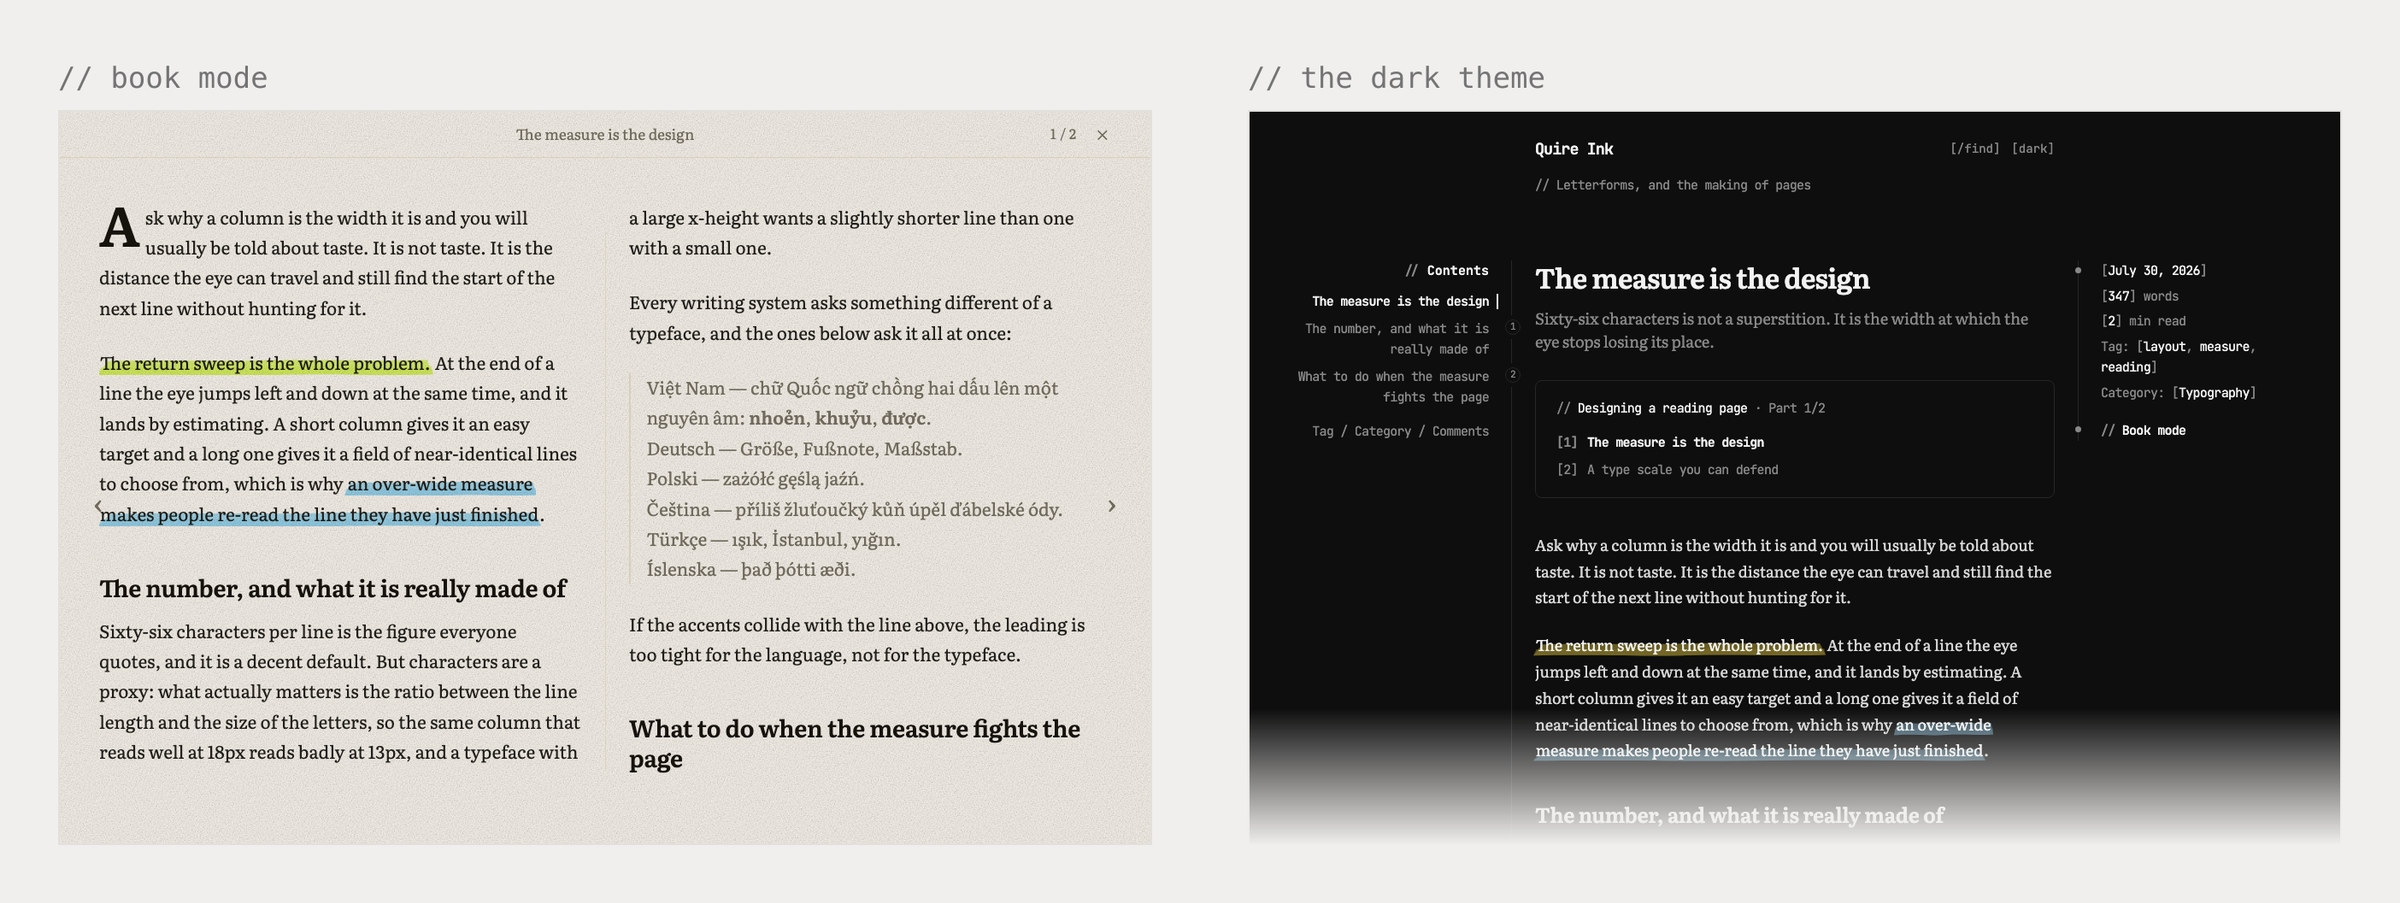
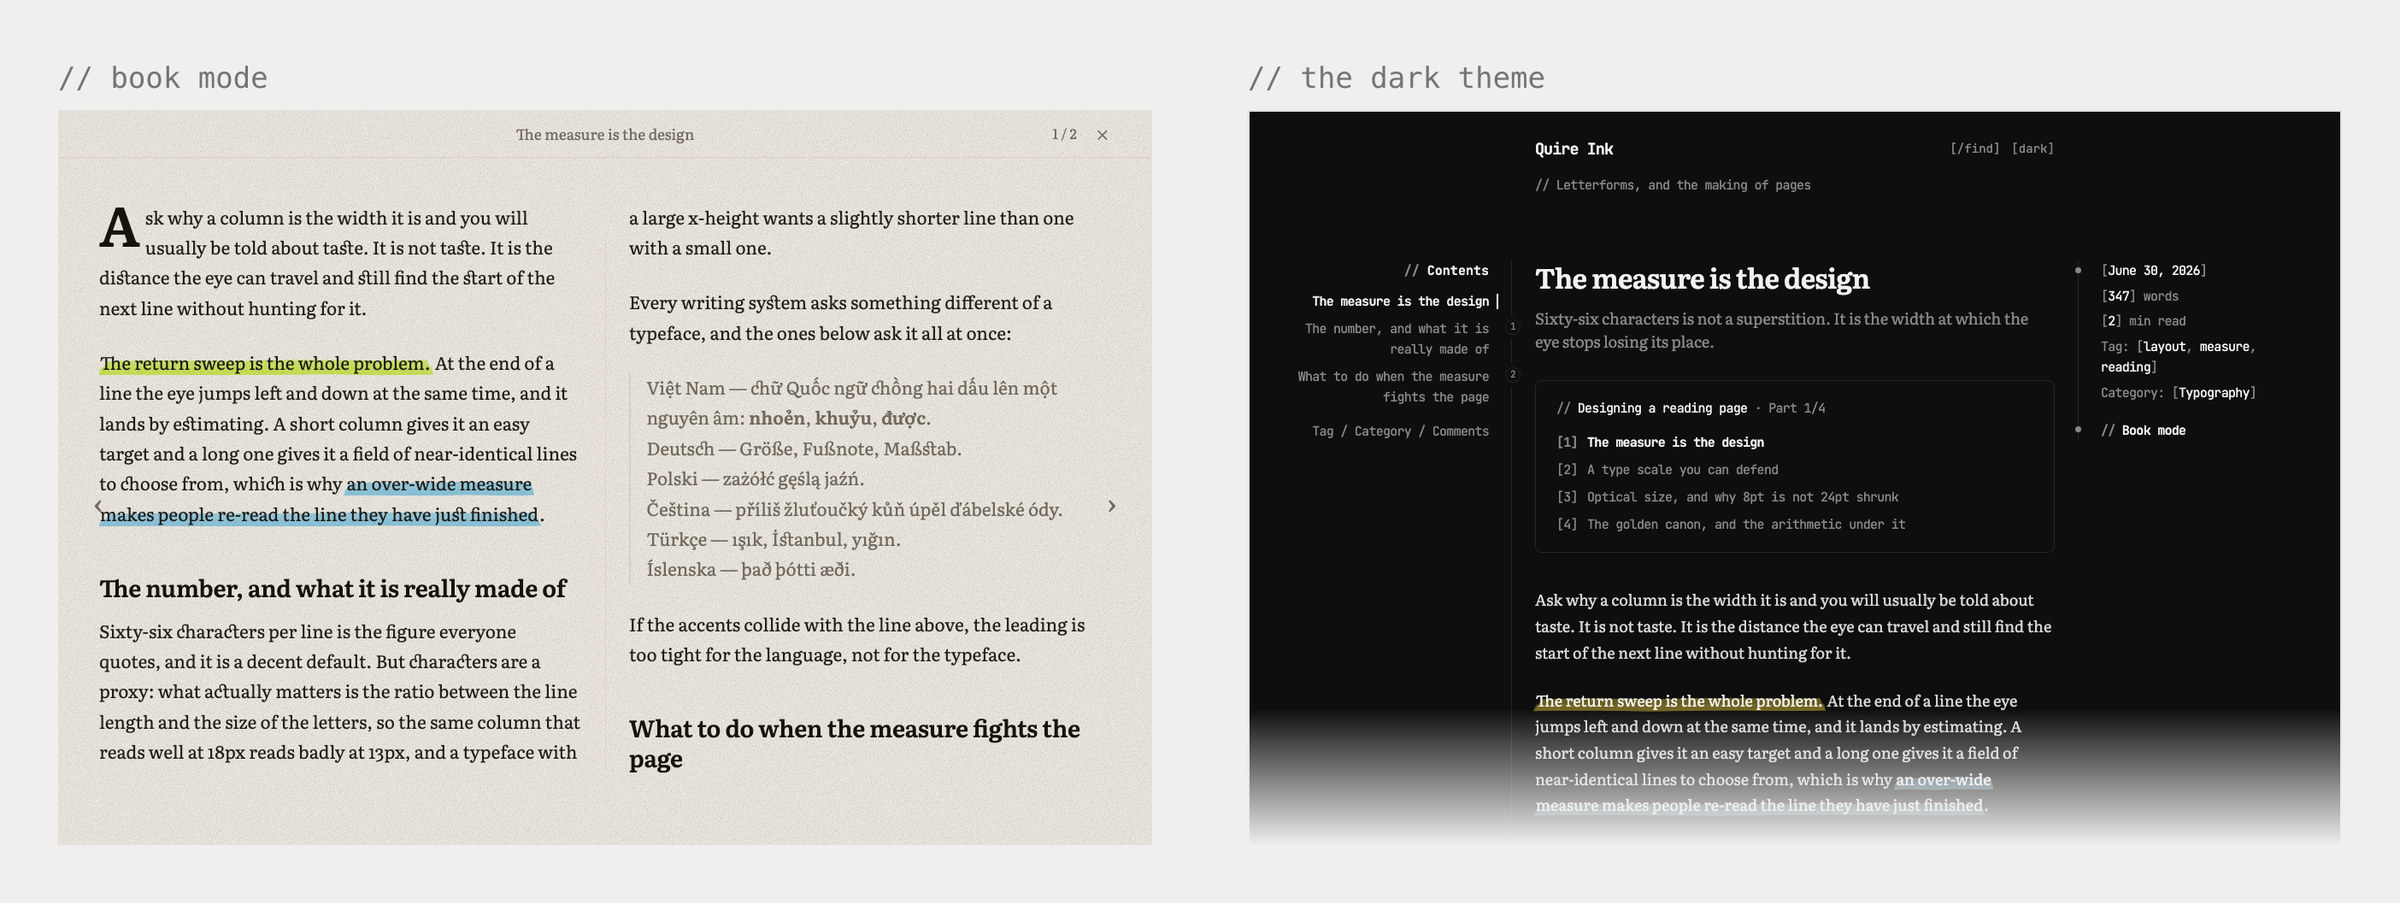
The README plates were pictures of the fixture from two releases ago
Every one of the four showed the 18-post fixture: no series navigation anywhere, a front page
whose category strips had barely enough posts to fill a row, an editor with five tags under
it, and a search overlay filtering an archive a third the size of the real one.

Reshot from the current fixture with `scripts/ops/shoot-readme.sh`, which is what that script
exists for. What changed in the pictures is what changed in the demo:

  demo.jpg          the series box, four parts listed, on the article panel; the front page's
                    strips now full, with Turkish and German titles among them
  demo-reading.jpg  the same box in the dark panel; book mode unchanged, which is the point
  demo-mobile.jpg   the series contents on a phone, and search filtering 28 posts not 18
  demo-admin.jpg    the editor's tag cloud is twenty-odd terms rather than five, and the
                    Series field is filled

The mobile alt text said "seven matching titles" and the overlay now lists eight, the last of
them clipped. Replaced with a description that does not depend on counting rows in an image:
a caption that has to be re-verified against a screenshot every time the fixture grows is a
caption that will be wrong and unnoticed, which is the state it was already in.

Dates in all four are pinned by `SEED_NOW` inside the shoot script, so a reshoot diffs on what
actually changed rather than on today's date.

diff --git a/README.vi.md b/README.vi.md
@@ -117,7 +117,7 @@ Nó giữ được như vậy nhờ vài quyết định khó đảo ngược.
 
 <div align="center">
 
-<img src="docs/demo-mobile.jpg" alt="Ba màn hình điện thoại: danh sách bài, một bài viết, và lớp tìm kiếm tức thì đang hiện bảy tựa bài khớp" width="960">
+<img src="docs/demo-mobile.jpg" alt="Ba màn hình điện thoại: danh sách bài, một bài viết đang hiện mục lục của loạt bài, và lớp tìm kiếm tức thì mới gõ dở đã lọc kho bài xuống còn những tựa khớp" width="960">
 
 <sub>Không con số nào ở trên là để lấy điểm benchmark. Chúng dành cho một người cầm chiếc điện thoại bốn năm tuổi, chỉ muốn đọc bốn trăm chữ.</sub>
 

diff --git a/README.md b/README.md
@@ -117,7 +117,7 @@ It stays this way because of a few decisions that are hard to walk back.
 
 <div align="center">
 
-<img src="docs/demo-mobile.jpg" alt="Three phone screens: the post list, an article, and the instant search overlay showing seven matching titles" width="960">
+<img src="docs/demo-mobile.jpg" alt="Three phone screens: the post list, an article showing its series contents, and the instant search overlay with a query part-typed and the archive already filtered to the titles that match" width="960">
 
 <sub>None of this is for a benchmark. It is for someone on a four-year-old phone who wanted to read four hundred words.</sub>
 
